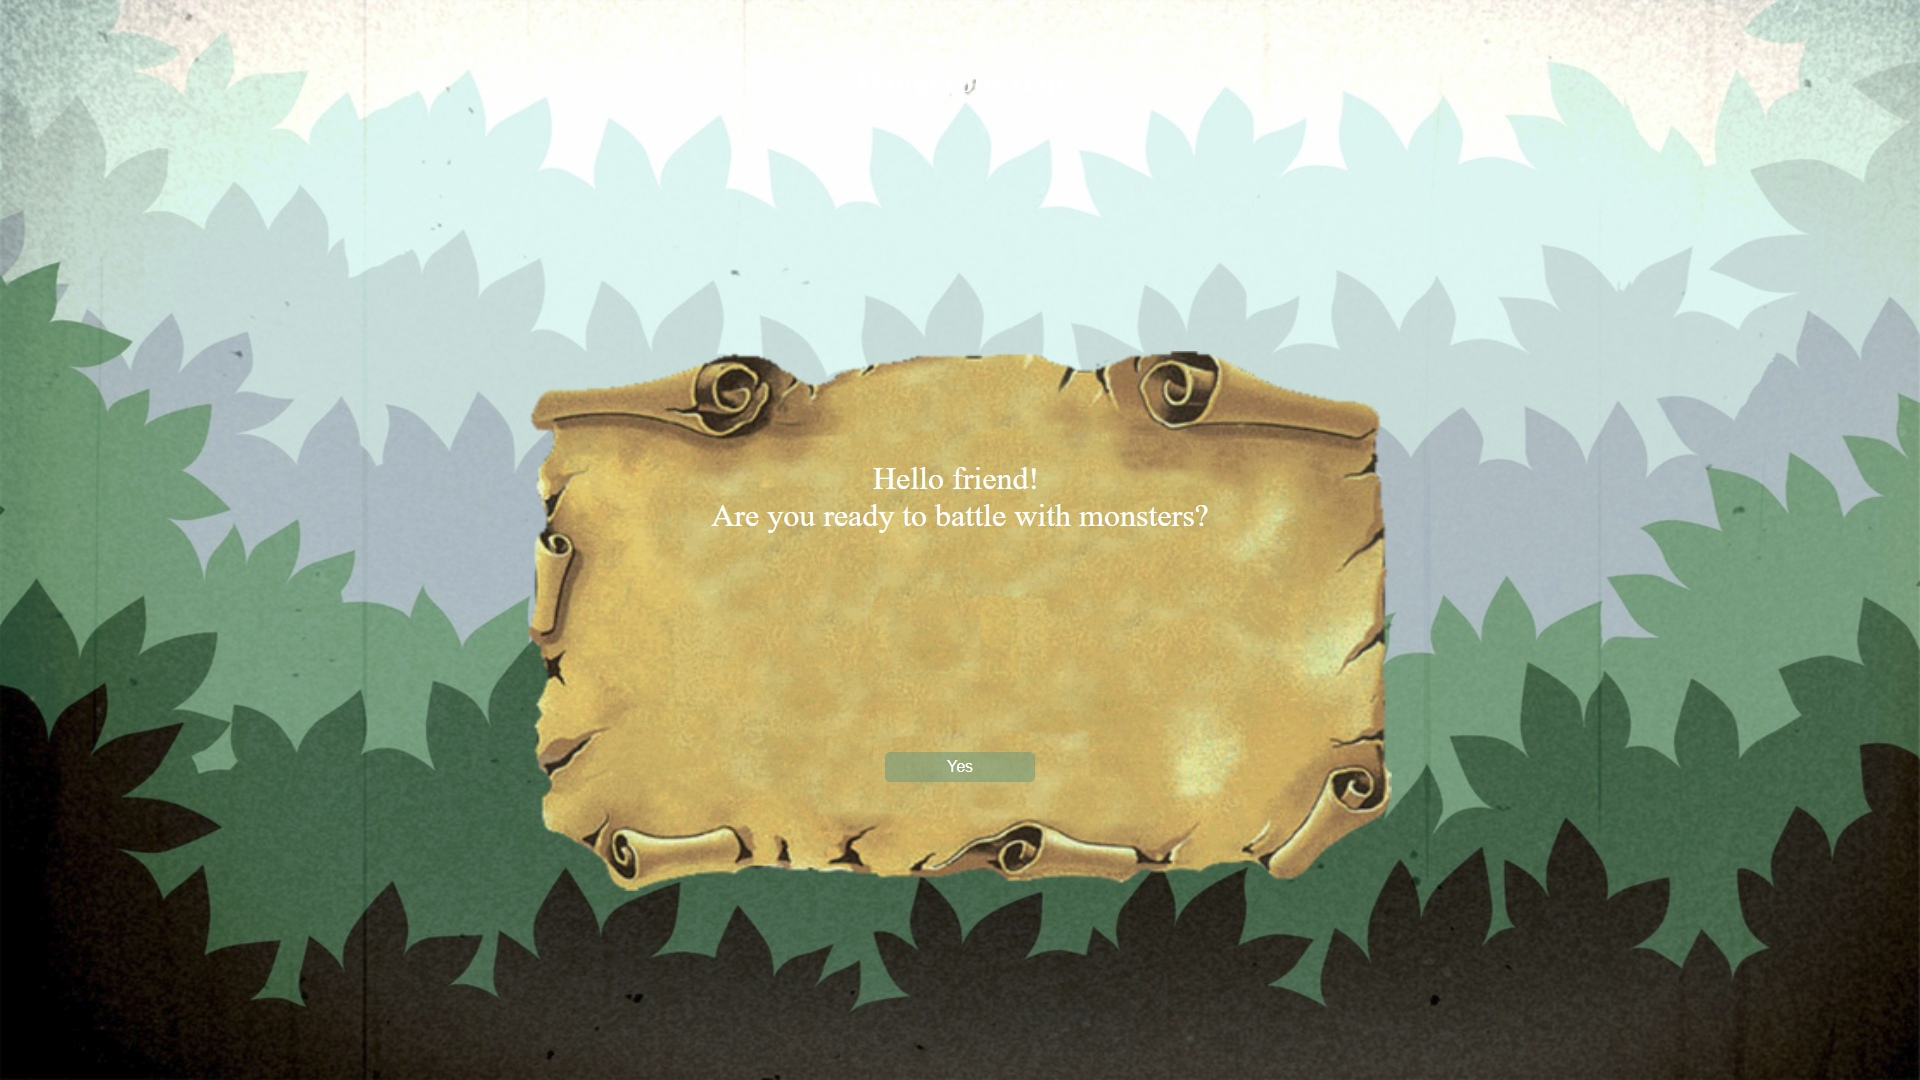
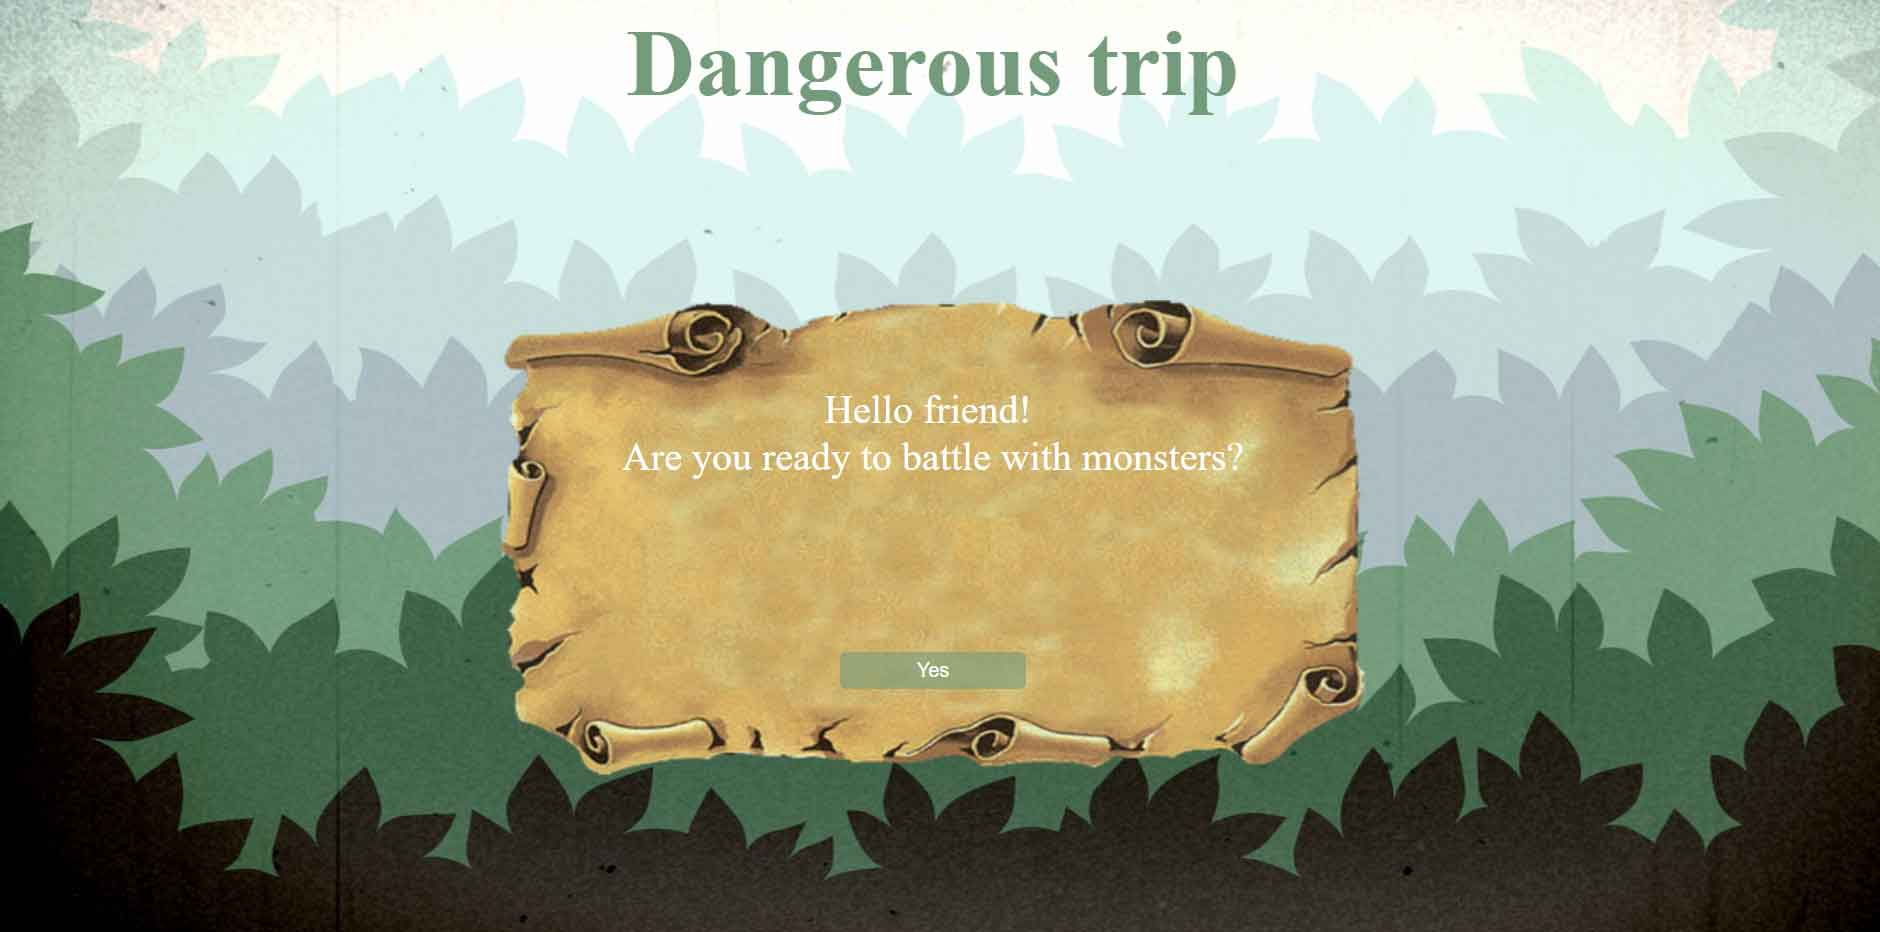
marina/style: changes

diff --git a/index.html b/index.html
@@ -16,15 +16,21 @@
         <div class="about-game-flex-container">
           <article class="game-genre">
             <h3 class="game-genre-header">Genre</h3>
-            <p class="game-genre-txt"> Lorem ipsum dolor sit amet, consectetur adipisicing elit, sed do eiusmod tempor incididunt ut labore et dolore magna aliqua. Ut enim ad minim veniam, quis nostrud exercitation ullamco laboris nisi ut aliquip ex ea commodo consequat. Duis aute irure dolor in reprehenderit in voluptate velit esse cillum dolore eu fugiat nulla pariatur. Excepteur sint occaecat cupidatat non proident, sunt in culpa qui officia deserunt mollit anim id est laborum. </p>
+            <p class="game-genre-txt"> Dangerous trip - is a browser game in which the player character is continuously moving 
+              forward through the game world. He meets a lot of monsters on his way and battles with them by the spells. </p>
           </article>
           <article class="used-technologies">
             <h3 class="used-technologies-header">Technologies</h3>
-            <p class="used-technologies-txt">Lorem ipsum dolor sit amet, consectetur adipisicing elit, sed do eiusmod tempor incididunt ut labore et dolore magna aliqua. Ut enim ad minim veniam, quis nostrud exercitation ullamco laboris nisi ut aliquip ex ea commodo consequat. Duis aute irure dolor in reprehenderit in voluptate velit esse cillum dolore eu fugiat nulla pariatur. Excepteur sint occaecat cupidatat non proident, sunt in culpa qui officia deserunt mollit anim id est laborum. </p>
+            <p class="used-technologies-txt">The following modern web technologies were used while building the game:
+               JavaScript, Canvas, Konva.js, jQuery, Web Audio API, Lodash, Webpack.<br>The web architecture of the game is based on MVC design pattern.</p>
+          </article>
+          <article class="resolution">
+            <h3 class="resolution-header">Resolution</h3>
+            <p class="resolution-txt">Resolution of the game screen is 1280 x 700, so if your device does not comply with this regulation feel free to close this site and forget it, or reduce the browser window (ctrl -).</p>           
           </article>
           <article class="game-controls">
             <h3 class="game-controls-header">Controls</h3>
-            <p class="game-controls-txt"> Lorem ipsum dolor sit amet, consectetur adipisicing elit, sed do eiusmod tempor incididunt ut labore et dolore magna aliqua. Ut enim ad minim veniam, quis nostrud exercitation ullamco laboris nisi ut aliquip ex ea commodo consequat. Duis aute irure dolor in reprehenderit in voluptate velit esse cillum dolore eu fugiat nulla pariatur. Excepteur sint occaecat cupidatat non proident, sunt in culpa qui officia deserunt mollit anim id est laborum. </p>
+            <p class="game-controls-txt">The main player is controlled by keyboard. The countdown timer is used to motivate you to defeat as many monsters as possible.</p>
           </article>
         </div>
       </section>

diff --git a/css/index.css b/css/index.css
@@ -31,12 +31,15 @@ h1{
   height: 80%;
   width: 100%
 }
-.game-genre{
+.game-genre, .used-technologies,
+.resolution, .game-controls{
   display: flex;
   flex-direction: column;
   align-items: center;
   height: 100%;
   width: 30%;
+  margin-left: 10px;
+  margin-right: 10px;
 }
 .game-genre-header{
 
@@ -44,26 +47,26 @@ h1{
 .game-genre-txt{
 
 }
-.used-technologies{
+/* .used-technologies, .resolution {
   height: 100%;
   width: 30%;
   display: flex;
   flex-direction: column;
   align-items: center;
-}
+} */
 .used-technologies-header{
 
 }
 .used-technologies-txt{
 
 }
-.game-controls{
+/* .game-controls{
   height: 100%;
   width: 30%;
   display: flex;
   flex-direction: column;
   align-items: center;
-}
+} */
 .game-controls-header{
 
 }
